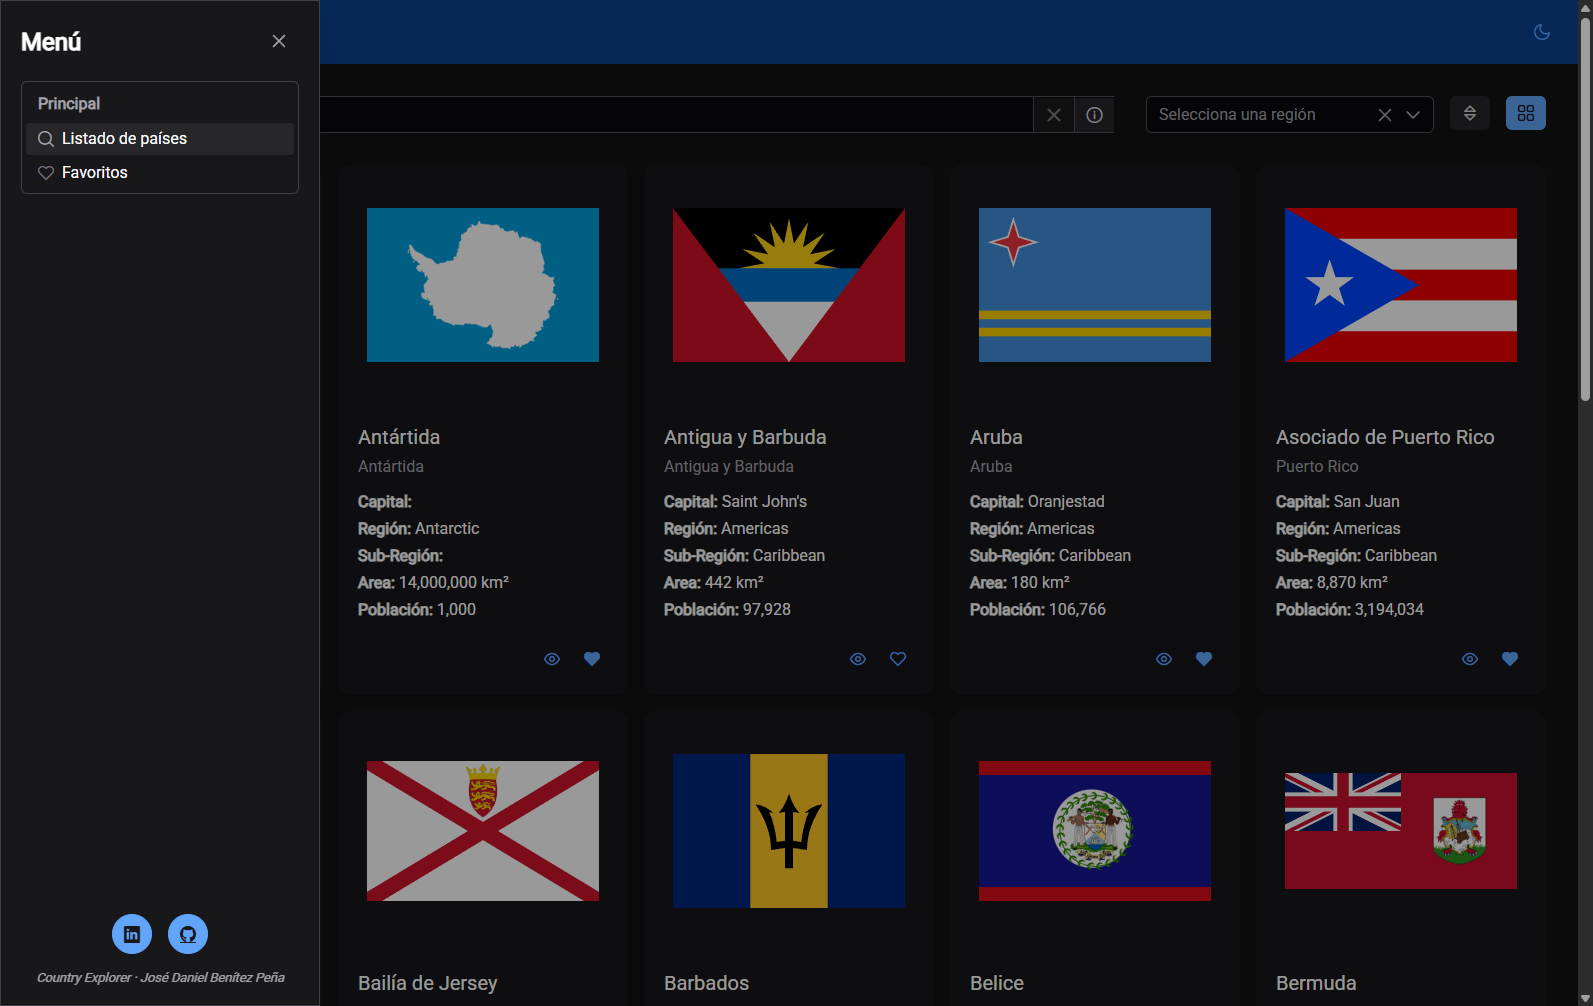
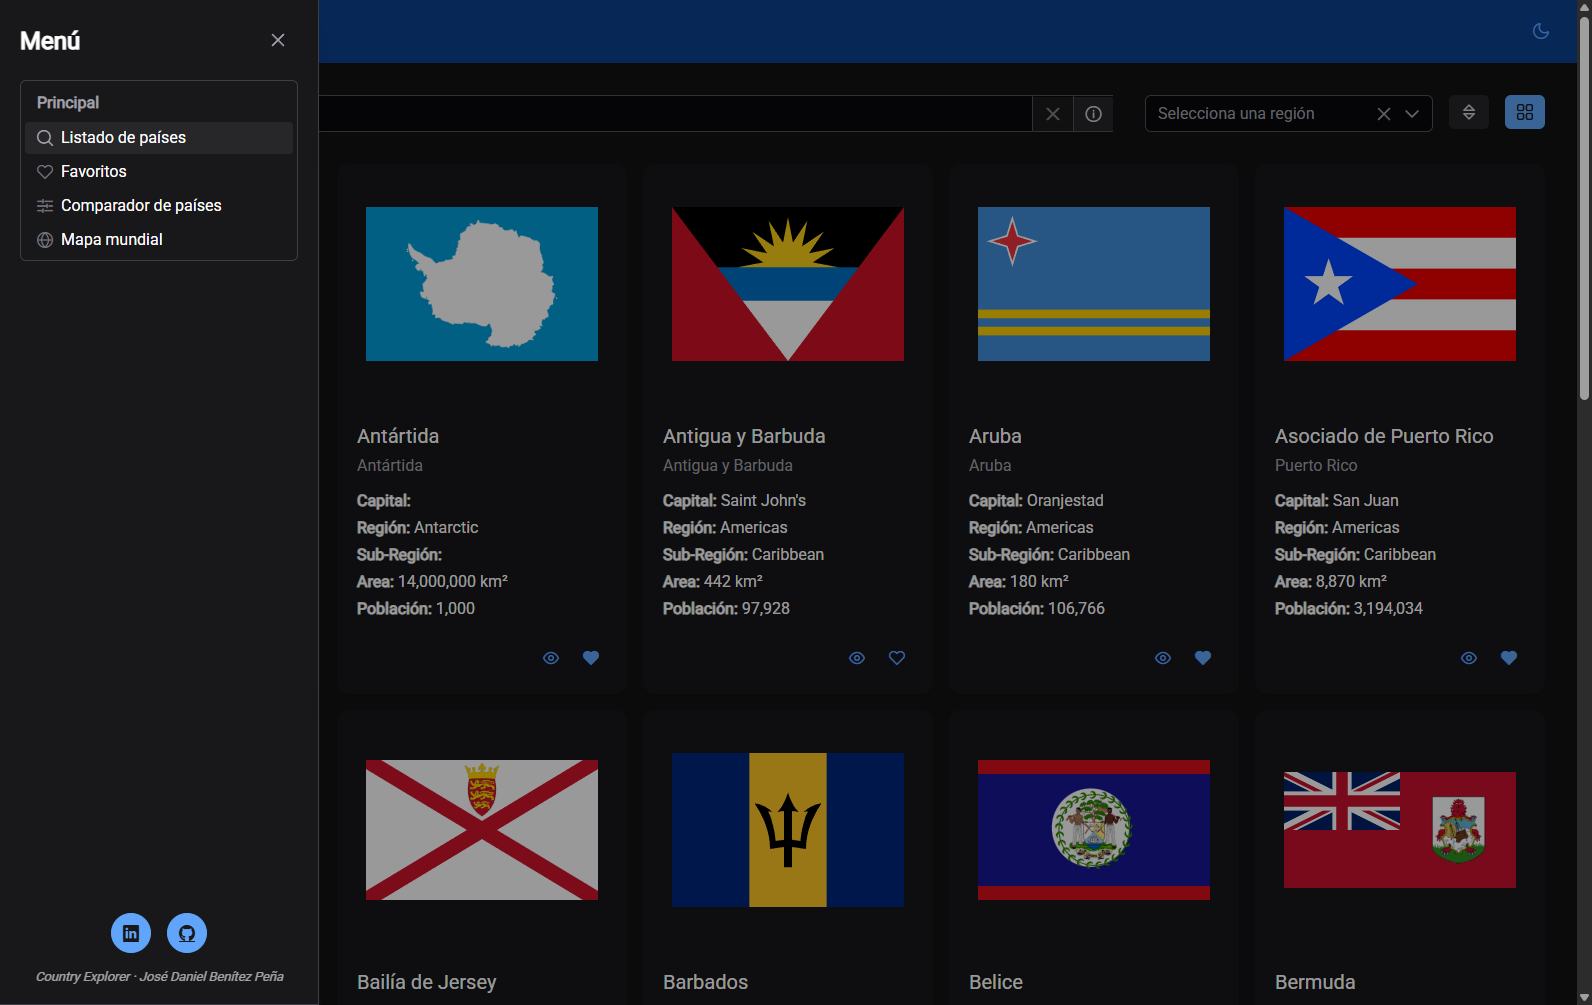
docs: README.md y carpeta assets actualizados

diff --git a/README.md b/README.md
@@ -24,6 +24,14 @@ Aplicación desarrollada en **Angular v19** para explorar información sobre los
 **Vista detallada del país seleccionado**
 - Accede a toda la información proporcionada por la API https://restcountries.com
 
+**Comparador de países**
+- **Compara** información clave de hasta **8 países a la vez**, como población, área, número de fronteras, zonas horarias, idiomas y monedas
+
+**Mapa mundial**
+- Muestra un mapa interactivo donde puedes visualizar la ubicación geográfica de todos los países, una gráfica y una tabla con información adicional.
+- Haz clic en un país para ver la **Vista detallada del país seleccionado**
+- Aplica filtros para destacar países o regiones completas según criterios como población, área, densidad poblacional, etc.
+
 ---
 
 ## ▶ Cómo ejecutar la aplicación
@@ -43,3 +51,5 @@ Aplicación desarrollada en **Angular v19** para explorar información sobre los
 ![Menú desplegable](assets/4.png)
 ![Información del país](assets/5.png)
 ![Favoritos](assets/6.png)
+![Comparador de países](assets/7.png)
+![Mapa mundial](assets/8.png)
